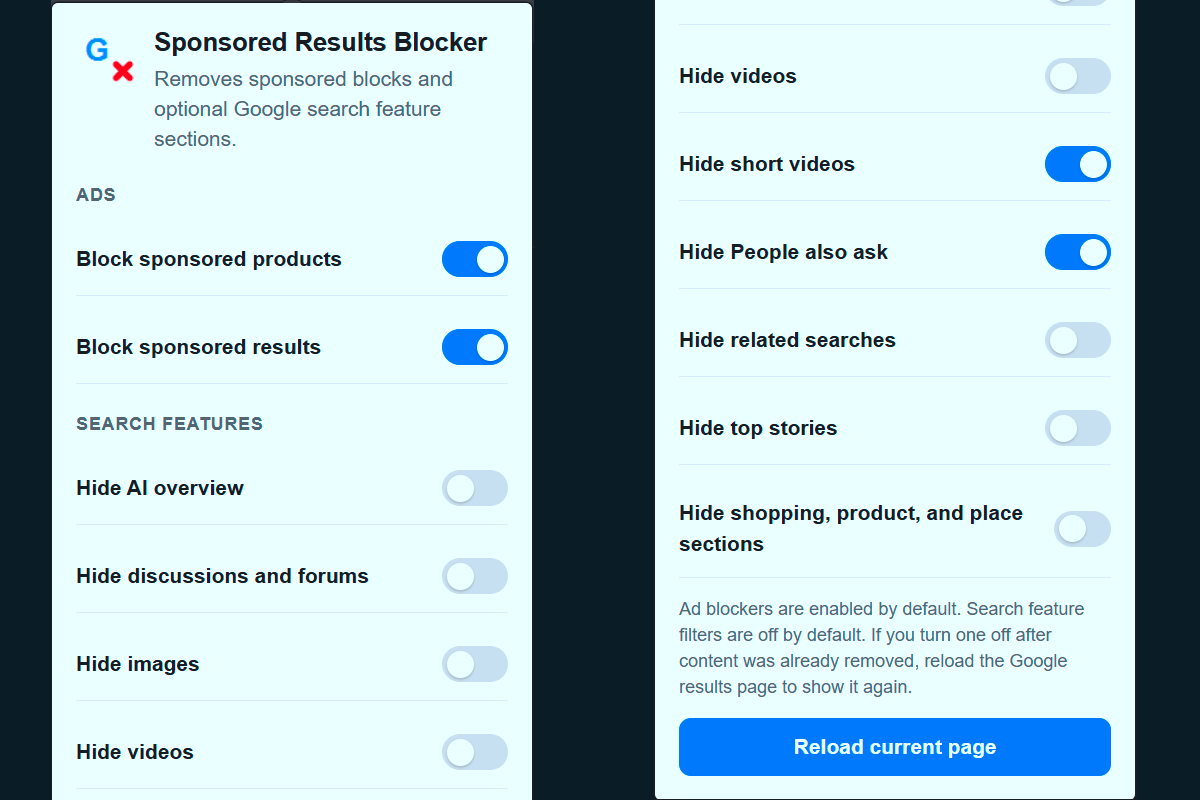
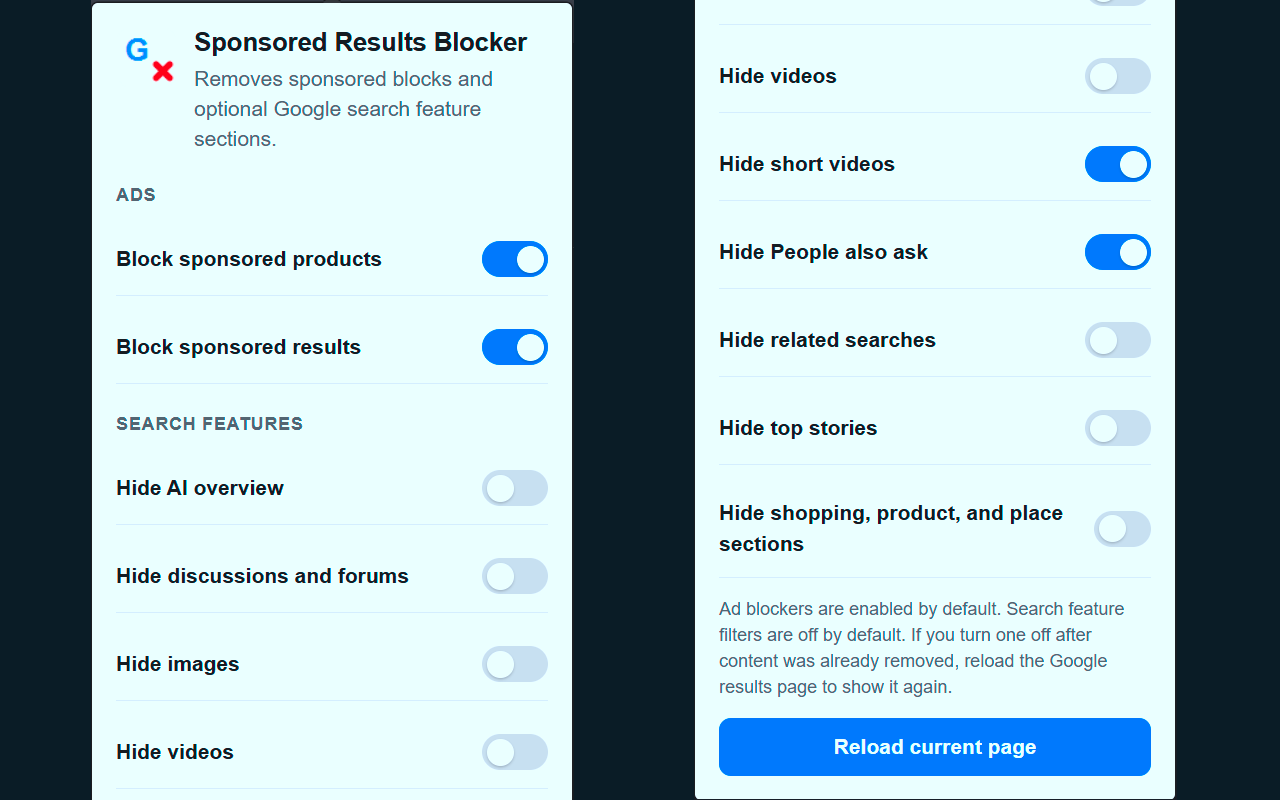
Adding Single Purpose to readme

Changed region(s): [[0.5242, 0.0, 0.9558, 1.0], [0.0308, 0.0, 0.4625, 1.0], [0.6475, 0.9062, 0.8325, 0.9688]]

diff --git a/README.md b/README.md
@@ -8,6 +8,12 @@ Google Sponsored Results Blocker is a lightweight browser extension for people w
 
 The extension works locally in your browser. It does not collect, transmit, sell, or share browsing data, search queries, page content, personal information, or analytics.
 
+## Single Purpose
+
+The single purpose of this extension is to clean up Google Search result pages by hiding selected sponsored and optional Google Search feature sections. All functionality in the extension directly supports this purpose: detecting supported Google Search sections, removing them locally from the visible page, saving the user's on/off preferences, and reloading the current page after settings change.
+
+The extension does not provide unrelated features and does not modify websites outside of this page-cleanup purpose.
+
 ## Features
 
 - Blocks sponsored products by default.